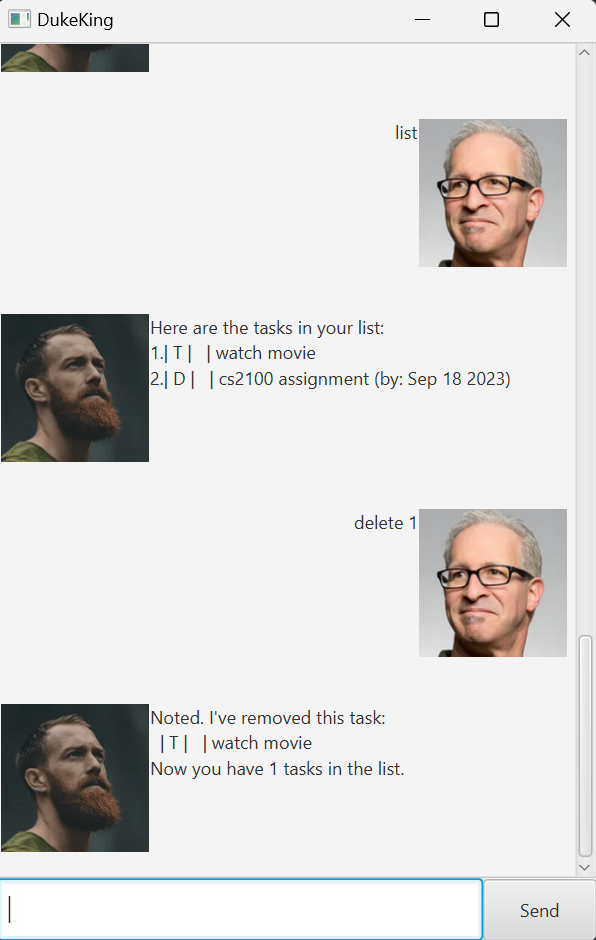
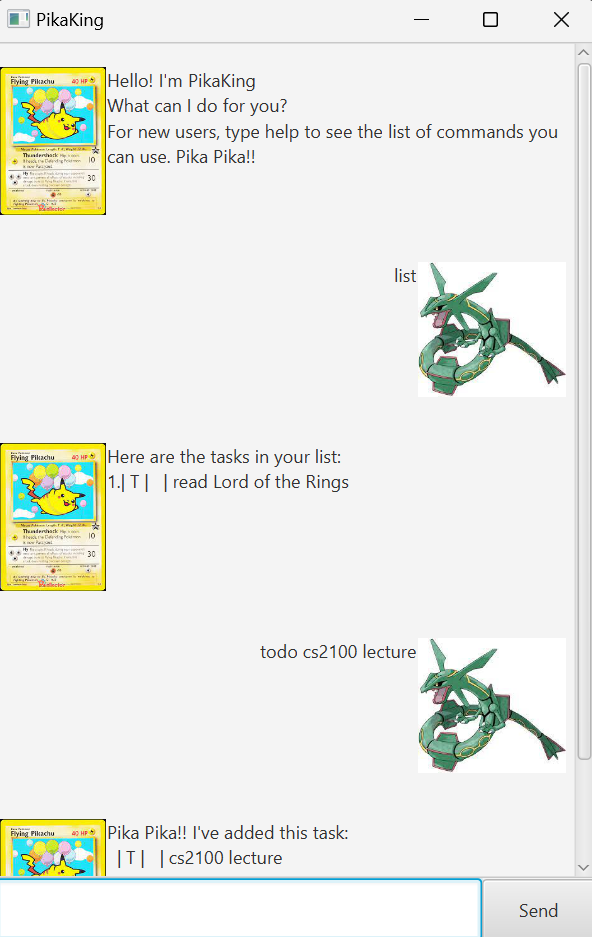
Edit Add A-Personality

diff --git a/src/main/java/duke/gui/PikaKing.java b/src/main/java/duke/gui/PikaKing.java
@@ -13,19 +13,19 @@ import duke.Duke;
 /**
  * A GUI for Duke using FXML.
  */
-public class DukeKing extends Application {
+public class PikaKing extends Application {
 
     private Duke duke = new Duke("dataTasks.txt");
 
     @Override
     public void start(Stage stage) {
         try {
-            FXMLLoader fxmlLoader = new FXMLLoader(DukeKing.class.getResource("/view/MainWindow.fxml"));
+            FXMLLoader fxmlLoader = new FXMLLoader(PikaKing.class.getResource("/view/MainWindow.fxml"));
             AnchorPane ap = fxmlLoader.load();
             Scene scene = new Scene(ap);
             stage.setScene(scene);
             fxmlLoader.<MainWindow>getController().setDuke(duke);
-            stage.setTitle("DukeKing");
+            stage.setTitle("PikaKing");
             stage.show();
         } catch (IOException e) {
             e.printStackTrace();

diff --git a/src/main/java/duke/gui/MainWindow.java b/src/main/java/duke/gui/MainWindow.java
@@ -56,7 +56,7 @@ public class MainWindow extends AnchorPane {
                 DialogBox.getUserDialog(input, userImage),
                 DialogBox.getDukeDialog(response, dukeImage));
         userInput.clear();
-        if (response.equals("Bye. Hope to see you again soon!")) {
+        if (response.equals("Bye. Hope to see you again soon! Pika Pika!!")) {
             PauseTransition delay = new PauseTransition(Duration.seconds(2));
             delay.setOnFinished(event -> Platform.exit());
             delay.play();

diff --git a/src/main/java/duke/Ui.java b/src/main/java/duke/Ui.java
@@ -37,7 +37,7 @@ public class Ui {
         printLine();
         System.out.println("Bye. Hope to see you again soon! Pika Pika!!");
         printLine();
-        return "Bye. Hope to see you again soon!";
+        return "Bye. Hope to see you again soon! Pika Pika!!";
     }
 
     /**

diff --git a/src/main/java/duke/gui/Launcher.java b/src/main/java/duke/gui/Launcher.java
@@ -4,6 +4,6 @@ import javafx.application.Application;
 
 public class Launcher {
     public static void main(String[] args) {
-        Application.launch(DukeKing.class, args);
+        Application.launch(PikaKing.class, args);
     }
 }
